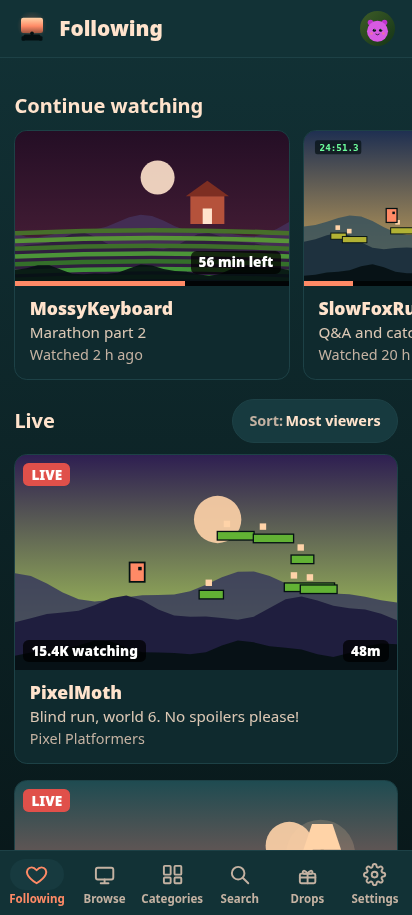
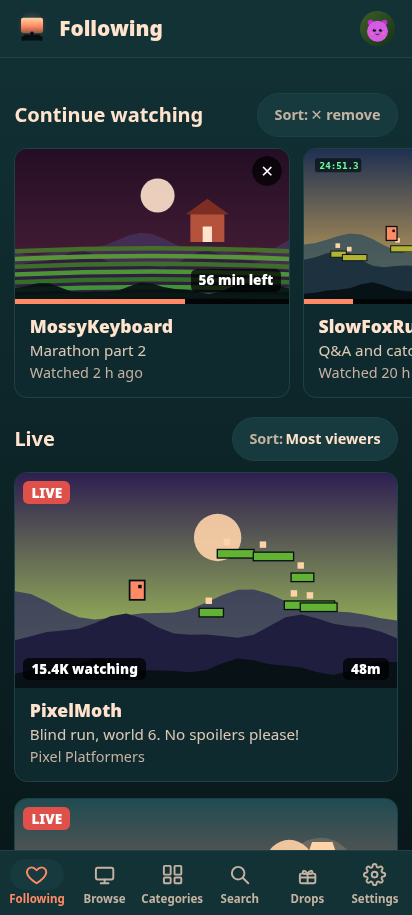
Continue watching: X hint chip, ✕ on each card, Undo toast (#31)
* Continue watching: easier to remove (X hint chip, a ✕ on each card, Undo toast)

- X on the focused card removes it at once (no menu); the row header gets a "{X} remove" chip like the sort
  chips (tap/click removes the focused card or explains), and the focused card shows an "X remove" badge.
- A ✕ on each card for mouse (on hover/focus) and touch (always, 44 px target).
- An Undo toast for ~6 s (Y, or its button): the position is only forgotten when it runs out (or at exit), so Undo
  restores the card unchanged. The long-press menu (Remove, channel page) stays.
- Tests: Remove/Undo/expiry/exit flush; the smoke test covers X → Y undo and ✕ → forgotten; the phone scene taps
  the ✕ and Undo. Screenshots and docs updated.

* chat-send smoke test: say what the chat looked like when its messages time out

* channel smoke test: say where the focus was when the channel page doesn't open

* Channel and chat-send smoke tests: Continue watching off (the row's late load could take the startup focus from the live card they pick)

---------

Changed region(s): [[0.0291, 0.0918, 1.0, 0.9486]]

diff --git a/packages/core/src/js/views/following.js b/packages/core/src/js/views/following.js
@@ -6,7 +6,7 @@ import { tw, setFollowedCache, followedChannels, followsAge, usersByIds, lastLiv
 import { KeyedGrid, streamCard, continueCard, errorState, listSort, sortChip, withGameHeaders, gameHeader } from '../grid.js';
 import { pickFromList } from '../modal.js';
 import { focusEl, scrollToFocus } from '../focus.js';
-import { loadContinueWatching, removeFromContinueWatching } from '../continue-watching.js';
+import { loadContinueWatching, scheduleRemoval, undoRemoval, UNDO_MS } from '../continue-watching.js';
 import { LIVE_SORTS, sortStreams } from '../../shared/sorts.js';
 import { mergeFollows, sortOffline, SORTS, fmtAgo } from '../follows.js';
 import { Poller } from '../refresher.js';
@@ -49,7 +49,8 @@ export function followingView() {
     destroy() { if (poller) { poller.stop(); this.nav && this.nav.unregisterPoller(poller); } },
     onPlayerClosed() { if (this.refreshCw) this.refreshCw(); },
     onAction(action) {
-      if (action === 'X' && this.cwRemove && this.cwRemove()) return true; // X on a Continue watching card: its menu
+      if (action === 'X' && this.cwRemove && this.cwRemove()) return true; // X on a Continue watching card: remove it
+      if (action === 'Y' && this.cwUndo && this.cwUndo()) return true; // while the Undo toast shows
       if (action === 'Y' && this.inCw && this.inCw()) return true; // the row has no sort (most recent first)
       if (action !== 'Y' || !this.cycleSort) return false;
       this.cycleSort();
@@ -68,7 +69,10 @@ export function followingView() {
       const offGridEl = el('div', { class: 'grid grid-offline' });
       const liveEmpty = el('p', { class: 'empty', hidden: true }, 'Nobody you follow is live right now.');
       // Continue watching: above Live, only when there is something to continue.
-      const cwTitle = el('h2', { class: 'section-title cw-title', hidden: true }, 'Continue watching ', hint('{X} remove'));
+      // The header's chip says how to remove (like the sort chips); a tap or click removes the focused card, else explains.
+      const cwChip = el('button', { class: 'sort-chip cw-chip', type: 'button', tabindex: '-1', 'aria-label': 'Remove from Continue watching', onclick: () => { if (!this.cwRemove()) toast(document.body.classList.contains('touch-ui') ? 'Tap ✕ on a card, or long-press it' : 'Press X on a card, or click its ✕', 2500); } },
+        hint('{X} remove'), el('span', { class: 'cw-chip-touch' }, '✕ remove'));
+      const cwTitle = el('h2', { class: 'section-title cw-title', hidden: true }, 'Continue watching ', cwChip);
       const cwGridEl = el('div', { class: 'grid cw-row hscroll', hidden: true });
       host.append(
         el('header', { class: 'view-header' }, el('h1', {}, 'Following'), hint('{X} channel page'), status),
@@ -108,15 +112,40 @@ export function followingView() {
           items,
           onPick: (what) => {
             if (what === 'channel') { nav.openChannel({ login: v.user_login, id: v.user_id, name: v.user_name }); return; }
-            cwGen++;
-            removeFromContinueWatching(cur.id);
-            cwItems.delete(cur.id);
-            paintCw([...cwItems.values()], { keepPosition: true });
-            toast('Removed from Continue watching', 1800);
+            cwRemoveItem(cur);
           },
         });
       };
-      const cw = new KeyedGrid(cwGridEl, { key: (it) => it.id, render: (it) => continueCard(it, cwPlay, cwMenu) });
+      // Remove (X, the card's ✕, or the long-press menu): the card goes at once; an Undo toast (Y, or its button)
+      // brings it back for a few seconds before the position is forgotten (continue-watching.js scheduleRemoval).
+      let undoable = null; // { item, toast }
+      const cwRemoveItem = (it) => {
+        const cur = cwItems.get(it.id) || it;
+        cwGen++;
+        scheduleRemoval(cur.id);
+        cwItems.delete(cur.id);
+        paintCw([...cwItems.values()], { keepPosition: true });
+        if (undoable && undoable.toast) undoable.toast.remove();
+        const t = toast(el('span', { class: 'undo-toast-body' },
+          `Removed “${cur.video.title || 'video'}” from Continue watching`,
+          el('button', { class: 'undo-toast-btn', type: 'button', tabindex: '-1', onclick: () => this.cwUndo() }, hint('{Y} '), 'Undo')), UNDO_MS - 400, 'undo-toast');
+        undoable = { item: cur, toast: t };
+        setTimeout(() => { if (undoable && undoable.item === cur) undoable = null; }, UNDO_MS - 400);
+      };
+      this.cwUndo = () => {
+        if (!undoable) return false;
+        const { item, toast: t } = undoable;
+        undoable = null;
+        if (t) t.remove();
+        if (!undoRemoval(item.id)) return true;
+        cwGen++;
+        paintCw([...cwItems.values(), item].sort((a, b) => b.at - a.at));
+        const back = cwGridEl.querySelector(`[data-cw-id="${item.id}"]`);
+        if (back && document.body.classList.contains('input-pad')) focusEl(back, { instant: true });
+        toast('Back in Continue watching', 1500);
+        return true;
+      };
+      const cw = new KeyedGrid(cwGridEl, { key: (it) => it.id, render: (it) => continueCard(it, cwPlay, cwMenu, cwRemoveItem) });
       const paintCw = (items, opts) => {
         lastCw = { account: state.auth.active, items };
         cwItems = new Map(items.map((it) => [it.id, it]));
@@ -147,7 +176,7 @@ export function followingView() {
           } while (cwAgain && host.isConnected);
         } catch (e) { console.warn('[cw] load failed', e); } finally { cwLoading = false; }
       };
-      this.cwRemove = () => { const c = document.activeElement && cwGridEl.contains(document.activeElement) ? document.activeElement.closest('[data-cw-id]') : null; if (c && cwItems.has(c.dataset.cwId)) cwMenu(cwItems.get(c.dataset.cwId)); return !!c; };
+      this.cwRemove = () => { const c = document.activeElement && cwGridEl.contains(document.activeElement) ? document.activeElement.closest('[data-cw-id]') : null; if (c && cwItems.has(c.dataset.cwId)) cwRemoveItem(cwItems.get(c.dataset.cwId)); return !!c; };
       this.refreshCw = refreshCw;
       this.inCw = () => cwGridEl.contains(document.activeElement);
       const cachedCw = lastCw && lastCw.account === state.auth.active ? lastCw : null;

diff --git a/apps/desktop/test/smoke/continue-watching.js b/apps/desktop/test/smoke/continue-watching.js
@@ -2,7 +2,8 @@
 // Continue watching smoke test, offline, in demo mode (LURKBOX_DEMO=1: made-up data, no network): the seeded row is at
 // the top of Following (above Live, newest first, the deleted VOD dropped after its Helix 404); D-pad RIGHT scrolls the
 // row; A plays a VOD from its saved position without the "Continue watching?" question; back in Following the row
-// is refreshed with that VOD first; X → "Remove from Continue watching" removes it with the focus kept in the row;
+// is refreshed with that VOD first; X removes a card (focus kept in the row) and Y on the Undo toast brings it back;
+// the card's ✕ removes it for good once the toast is gone;
 // the setting hides the row and Settings → Clear watch history empties it. LURKBOX_SHOT_DIR=<dir> saves cw-*.png.
 // Exits 0 on success.
 const fs = require('fs');
@@ -119,20 +120,24 @@ app.on('browser-window-created', (_e, win) => {
       if (t !== null) await waitFor('the row refreshed (just watched: first)', `document.querySelector('.cw-row .card') && document.querySelector('.cw-row .card').dataset.cwId === ${JSON.stringify(pick)}`, 2500);
       log(t !== null ? `played ${pick} from ${t.toFixed(0)} s (saved ${saved.position} s), first in the row again` : `no demo video (ffmpeg missing?): skipped the position check`);
 
-      // X → Remove from Continue watching: one card fewer, focus stays in the row.
+      // The header's chip and the focused card both say "X remove".
       await js("document.querySelector('.cw-row .card').focus(); true");
+      if (!(await js("/remove/.test(document.querySelector('.cw-title .cw-chip').textContent) && getComputedStyle(document.activeElement.querySelector('.cw-hint')).display !== 'none'"))) throw new Error('no X remove hint on the header chip or the focused card');
+      // X removes the focused card at once (focus stays in the row); Y on the Undo toast brings it back.
       const gone = await js('document.activeElement.dataset.cwId');
       await press('X');
-      await waitFor('the menu', "[...document.querySelectorAll('.modal .pick-item')].some((b) => /Remove from Continue watching/.test(b.textContent))");
-      // The modal focuses its first item on the next animation frame, which xvfb doesn't always run: a D-pad press does it too.
-      const inMenu = "!!(document.activeElement && document.activeElement.closest('.modal'))";
-      if (!(await waitFor('the focus in the menu', inMenu, 1500).catch(() => false))) await press('DOWN');
-      await waitFor('the focus on Remove', "!!(document.activeElement && document.activeElement.closest('.modal') && /Remove from/.test(document.activeElement.textContent))");
-      await shot('menu');
-      await press('A');
       await waitFor('one card fewer', `document.querySelectorAll('.cw-row .card').length === 5 && !document.querySelector('.cw-row [data-cw-id="${gone}"]')`);
       if (!(await js("!!document.activeElement.closest('.cw-row')"))) throw new Error('the focus left the row after Remove');
-      if (await js(`window.lurkbox.resumeGet(${JSON.stringify(gone)})`)) throw new Error('the removed VOD kept its position');
+      await waitFor('the Undo toast', "!!document.querySelector('#toasts .undo-toast .undo-toast-btn')");
+      await shot('undo');
+      await press('Y');
+      await waitFor('the card back', `document.querySelectorAll('.cw-row .card').length === 6 && document.querySelector('.cw-row .card').dataset.cwId === "${gone}"`);
+      if (!(await js(`window.lurkbox.resumeGet(${JSON.stringify(gone)})`))) throw new Error('Undo lost the position');
+      // Remove again (the card's ✕ this time) and let the toast run out: the position is forgotten.
+      await js(`document.querySelector('.cw-row [data-cw-id="${gone}"] .cw-x').click(); true`);
+      await waitFor('one card fewer', `document.querySelectorAll('.cw-row .card').length === 5`);
+      await waitFor('the position forgotten', `window.lurkbox.resumeGet(${JSON.stringify(gone)}).then((r) => !r)`, 10000);
+      if (await js(`!!document.querySelector('.cw-row [data-cw-id="${gone}"]')`)) throw new Error('the removed card came back');
 
       // The setting hides the row; Clear watch history empties it.
       await js("window.__lurkbox.nav.goTop('settings'); true");
@@ -145,7 +150,7 @@ app.on('browser-window-created', (_e, win) => {
       await waitFor('Following', "document.querySelectorAll('[data-view=following] .grid-live .card').length >= 5");
       await sleep(600);
       if (!(await js("document.querySelector('.cw-row').hidden && document.querySelector('.cw-title').hidden"))) throw new Error('the row shows after Clear watch history');
-      finish(0, `row of ${ids.length} above Live (deleted VOD dropped), D-pad scroll, played without the question, refreshed after the player, X → Remove, Clear watch history`);
+      finish(0, `row of ${ids.length} above Live (deleted VOD dropped), D-pad scroll, played without the question, refreshed after the player, X → Remove → Y undo, ✕ → forgotten after the toast, Clear watch history`);
     } catch (e) {
       await shot('FAILED').catch(() => {});
       finish(1, e.message);

diff --git a/apps/desktop/test/smoke/channel.js b/apps/desktop/test/smoke/channel.js
@@ -10,7 +10,7 @@ const os = require('os');
 const path = require('path');
 
 const userData = fs.mkdtempSync(path.join(os.tmpdir(), 'lurkbox-channel-'));
-fs.writeFileSync(path.join(userData, 'settings.json'), JSON.stringify({ videoOnlyUnfocused: false, navSounds: false, inputWhenUnfocused: true }));
+fs.writeFileSync(path.join(userData, 'settings.json'), JSON.stringify({ videoOnlyUnfocused: false, navSounds: false, inputWhenUnfocused: true, continueWatchingOn: false }));
 Object.assign(process.env, { TZ: 'UTC', LURKBOX_DEMO: '1', LURKBOX_USER_DATA: userData, LURKBOX_DEMO_SIZE: '1280x800' });
 if (!process.argv.includes('--windowed')) process.argv.push('--windowed');
 
@@ -79,7 +79,10 @@ app.on('browser-window-created', (_e, win) => {
       await js("document.querySelectorAll('[data-view=following] .grid-live .card')[1].focus(); true");
       const login = await js("document.activeElement.dataset.channelLogin");
       await press('X');
-      await waitFor('the channel page', `!!document.querySelector('[data-view="channel:${login}"] .channel-tab.selected')`);
+      await waitFor('the channel page', `!!document.querySelector('[data-view="channel:${login}"] .channel-tab.selected')`).catch(async (e) => {
+        const d = await js("({ active: document.activeElement && document.activeElement.outerHTML.slice(0, 160), views: [...document.querySelectorAll('#content [data-view]')].map((n) => n.dataset.view + (n.hidden ? '(hidden)' : '')), modal: !!document.querySelector('.modal'), player: !document.getElementById('player-screen').hidden, toasts: [...document.querySelectorAll('#toasts .toast')].map((t) => t.textContent.slice(0, 60)) })").catch((x) => String(x));
+        throw new Error(`${e.message} (login ${login}): ${JSON.stringify(d)}`);
+      });
       if (await tab() !== 'home') throw new Error(`opened on ${await tab()}`);
       await waitFor('the header', "/followers/.test(document.querySelector('.channel-sub').textContent) && !!document.querySelector('.channel-live-card .watch-live') && !!document.querySelector('.channel-avatar img')");
       await waitFor('the home tab', "!!document.querySelector('.channel-body [data-focus-key=home-live]') && document.querySelectorAll('.channel-body .card-clip').length >= 1 && !!document.querySelector('.channel-next')");

diff --git a/apps/desktop/test/smoke/chat-send.js b/apps/desktop/test/smoke/chat-send.js
@@ -12,7 +12,7 @@ const os = require('os');
 const path = require('path');
 
 const userData = fs.mkdtempSync(path.join(os.tmpdir(), 'lurkbox-chat-send-'));
-fs.writeFileSync(path.join(userData, 'settings.json'), JSON.stringify({ chatDefault: true, chatStyle: 'lurkbox', videoOnlyUnfocused: false, navSounds: false, inputWhenUnfocused: true }));
+fs.writeFileSync(path.join(userData, 'settings.json'), JSON.stringify({ chatDefault: true, chatStyle: 'lurkbox', videoOnlyUnfocused: false, navSounds: false, inputWhenUnfocused: true, continueWatchingOn: false }));
 Object.assign(process.env, { LURKBOX_DEMO: '1', LURKBOX_USER_DATA: userData, LURKBOX_DEMO_SIZE: '1280x800' });
 if (!process.argv.includes('--windowed')) process.argv.push('--windowed');
 
@@ -96,7 +96,10 @@ app.on('browser-window-created', (_e, win) => {
       await js("document.querySelector('[data-view=following] .grid-live .card').focus(); true");
       await press('A');
       await waitFor('the player', "!document.getElementById('player-screen').hidden");
-      await waitFor('chat messages', "document.querySelectorAll('#chat .chat-msg:not(.system)').length >= 10");
+      await waitFor('chat messages', "document.querySelectorAll('#chat .chat-msg:not(.system)').length >= 10", 25000).catch(async (e) => {
+        const d = await js("({ msgs: document.querySelectorAll('#chat .chat-msg').length, real: document.querySelectorAll('#chat .chat-msg:not(.system)').length, chatHidden: !!(document.getElementById('chat') && document.getElementById('chat').hidden), cur: window.__lurkbox.player.current && { kind: window.__lurkbox.player.current.kind, login: window.__lurkbox.player.current.login }, chatOn: window.__lurkbox.player.chatOn, sys: [...document.querySelectorAll('#chat .chat-msg.system')].map((n) => n.textContent.slice(0, 80)), modal: !!document.querySelector('.modal') })").catch((x) => String(x));
+        throw new Error(`${e.message}: ${JSON.stringify(d)}`);
+      });
       await waitFor('the composer', "(() => { const c = document.querySelector('#chat .chat-composer'); return c && !c.hidden; })()");
       // Overlay → "Send a message" → the on-screen keyboard.
       await press('A');

diff --git a/packages/core/src/js/grid.js b/packages/core/src/js/grid.js
@@ -110,14 +110,20 @@ export function videoCard(v, onSelect) {
  * "x min left"; the channel, the title and when it was last watched. A plays from the saved position; X (or a
  * long-press) calls onMenu (Remove from Continue watching).
  */
-export function continueCard(item, onSelect, onMenu) {
+export function continueCard(item, onSelect, onMenu, onRemove = onMenu) {
   const v = item.video;
   const p = cwProgress(item.position, item.duration);
   const img = v.thumbnail_url ? thumb(v.thumbnail_url, 440, 248) : '';
-  const card = el('button', { class: 'card card-cw focusable', type: 'button', onclick: () => onSelect(item), dataset: { focusKey: `cw-${item.id}`, cwId: item.id }, 'aria-label': `${v.user_name || v.user_login}: ${v.title || 'Video'}, ${p.label}` },
+  const card = el('button', { class: 'card card-cw focusable', type: 'button', onclick: () => onSelect(item), dataset: { focusKey: `cw-${item.id}`, cwId: item.id }, 'aria-label': `${v.user_name || v.user_login}: ${v.title || 'Video'}, ${p.label}. X removes it.` },
     el('div', { class: 'card-thumb' },
       img ? el('img', { src: img, alt: '', loading: 'lazy' }) : el('div', { class: 'thumb-missing' }, 'Video'),
       el('span', { class: 'badge cw-left' }, p.label),
+      // On the focused card (controller or keyboard): how to remove it.
+      el('span', { class: 'badge cw-hint' }, hint('{X} remove')),
+      // ✕ for mouse and touch (the D-pad uses X). A span, not a nested button; its click doesn't reach the card.
+      el('span', { class: 'cw-x', role: 'button', 'aria-label': 'Remove from Continue watching', title: 'Remove from Continue watching',
+        onclick: (e) => { e.stopPropagation(); e.preventDefault(); onRemove(item); },
+        onpointerdown: (e) => e.stopPropagation() }, '\u2715'),
       el('div', { class: 'cw-progress', role: 'progressbar', 'aria-valuemin': '0', 'aria-valuemax': '100', 'aria-valuenow': String(Math.round(p.fraction * 100)) },
         el('div', { class: 'cw-progress-fill', style: `width: ${(p.fraction * 100).toFixed(1)}%` }))),
     el('div', { class: 'card-body' },

diff --git a/packages/core/src/css/app.css b/packages/core/src/css/app.css
@@ -237,6 +237,23 @@ img { display: block; }
 .grid.cw-row::-webkit-scrollbar { display: none; }
 .grid.cw-row[hidden], .cw-title[hidden] { display: none; }
 .badge.cw-left { bottom: 0.75rem; right: 0.5rem; font-variant-numeric: tabular-nums; }
+.badge.cw-hint { top: 0.5rem; left: 0.5rem; display: none; align-items: center; }
+.badge.cw-hint .hint { color: inherit; font-size: inherit; }
+body:not(.input-touch):not(.input-mouse) .card-cw:is(:focus, .is-focused) .cw-hint { display: inline-flex; }
+/* ✕: with a mouse on the hovered or focused card; always on the touch layouts (touch.css). The D-pad uses X. */
+.cw-x {
+  position: absolute; top: 0.4rem; right: 0.4rem; width: 2.2rem; height: 2.2rem; border-radius: 50%; display: none;
+  place-items: center; background: var(--badge-bg); color: var(--badge-fg); font-size: 1rem; font-weight: 800; cursor: pointer;
+}
+body.input-mouse .card-cw:is(:hover, :focus, .is-focused) .cw-x { display: grid; }
+.cw-x:hover { background: var(--live); color: var(--on-live); }
+.cw-chip .cw-chip-touch { display: none; }
+body.input-mouse .cw-chip .hint { display: none; }
+body.input-mouse .cw-chip .cw-chip-touch { display: inline; }
+.toast.undo-toast { pointer-events: auto; }
+.undo-toast-body { display: inline-flex; align-items: center; gap: 0.9rem; flex-wrap: wrap; }
+.undo-toast-btn { border: 1px solid var(--border); background: var(--raised); color: var(--fg); border-radius: 999px; padding: 0.25rem 0.8rem; font: inherit; font-size: 0.95rem; cursor: pointer; }
+.undo-toast-btn .hint { color: inherit; font-size: inherit; margin-right: 0.2rem; }
 .cw-progress { position: absolute; left: 0; right: 0; bottom: 0; height: 0.3rem; background: var(--badge-bg); }
 .cw-progress-fill { height: 100%; background: var(--accent); }
 .card-body { padding: 0.7rem 0.9rem 0.9rem; display: flex; flex-direction: column; gap: 0.2rem; min-width: 0; }

diff --git a/packages/core/src/js/continue-watching.js b/packages/core/src/js/continue-watching.js
@@ -25,11 +25,38 @@ export async function loadContinueWatching({ account = state.auth.active, now = 
       rows = rows.filter((e) => !gone.includes(e.id));
     }
   }
+  rows = rows.filter((e) => !pending.has(e.id));
   return rows.map((e) => ({ id: e.id, position: e.position, duration: e.duration, at: e.at, video: videoOfEntry(e, checked.videos.get(e.id)) }));
 }
 
 /** Tests: forget the Helix checks. */
 export function resetContinueWatchingChecks() { checked.account = null; checked.videos = new Map(); }
+
+// Removals waiting out their Undo toast: id → timer. The row leaves them out meanwhile; the position is only
+// forgotten when the time is up (or at exit, flushRemovals), so Undo puts the card back exactly as it was.
+export const UNDO_MS = 6000;
+const pending = new Map();
+
+/** Remove with Undo: hidden at once, forgotten after `ms` unless undoRemoval(id) comes first. */
+export function scheduleRemoval(id, ms = UNDO_MS) {
+  const k = String(id);
+  clearTimeout(pending.get(k));
+  pending.set(k, setTimeout(() => { pending.delete(k); removeFromContinueWatching(k); }, ms));
+}
+/** Undo: true if the removal was still pending. */
+export function undoRemoval(id) {
+  const k = String(id);
+  if (!pending.has(k)) return false;
+  clearTimeout(pending.get(k));
+  pending.delete(k);
+  return true;
+}
+/** At exit: forget every pending removal now. */
+export function flushRemovals() {
+  for (const [k, t] of pending) { clearTimeout(t); removeFromContinueWatching(k); }
+  pending.clear();
+}
+export const isPendingRemoval = (id) => pending.has(String(id));
 
 /** "Remove from Continue watching": forgets the saved position too (the video would start over next time). */
 export function removeFromContinueWatching(id) {

diff --git a/apps/desktop/scripts/screenshot-scene.js b/apps/desktop/scripts/screenshot-scene.js
@@ -513,11 +513,18 @@ app.on('browser-window-created', (_e, win) => {
       if (row.h > row.card * 1.5) throw new Error(`the row wraps on the phone: ${JSON.stringify(row)}`);
       await settle();
       await shoot('phone-continue-watching');
-      // A long-press offers Remove from Continue watching.
+      // The ✕ removes a card (a 44 px target); the toast's Undo brings it back; a long-press offers the menu.
+      const x = await js("(() => { const r = document.querySelector('.cw-row .card .cw-x').getBoundingClientRect(); return [r.width, r.height]; })()");
+      if (x[0] < 44 || x[1] < 44) throw new Error(`the ✕ is ${x.join('x')} px`);
+      await tap('[data-view=following] .cw-row .card .cw-x');
+      await waitFor('one card fewer', "document.querySelectorAll('[data-view=following] .cw-row .card').length === 5");
+      await waitFor('the Undo toast', "!!document.querySelector('#toasts .undo-toast .undo-toast-btn')");
+      await settle({ noSpinner: false });
+      await shoot('phone-continue-watching-undo');
+      await tap('#toasts .undo-toast-btn');
+      await waitFor('the card back', "document.querySelectorAll('[data-view=following] .cw-row .card').length === 6");
       await tap('[data-view=following] .cw-row .card', { hold: 750 });
       await waitFor('the menu', "[...document.querySelectorAll('.modal .pick-item')].some((b) => /Remove from Continue watching/.test(b.textContent))");
-      await tap('.modal .pick-item');
-      await waitFor('one card fewer', "document.querySelectorAll('[data-view=following] .cw-row .card').length === 5");
     },
     async 'phone-following'() {
       await layoutIs('phone');

diff --git a/packages/core/src/css/touch.css b/packages/core/src/css/touch.css
@@ -88,6 +88,10 @@ body.layout-phone .view-header h1 { font-size: 1.6rem; }
 body.layout-phone .section-title { font-size: 1.25rem; margin: 1.2rem 0 0.7rem; display: flex; align-items: center; flex-wrap: wrap; gap: 0.4rem; }
 body.layout-phone .section-title .sort-chip { margin-left: auto; }
 body.layout-phone .grid { gap: 1rem 0.8rem; padding: 0.4rem; margin: -0.4rem; }
+/* Continue watching: the ✕ is always there for a finger (44 px target, the visible circle smaller), the chip says so. */
+body.touch-ui .cw-x { display: grid; top: 0; right: 0; width: var(--touch-min); height: var(--touch-min); background: radial-gradient(circle, var(--badge-bg) 0 0.9rem, transparent 0.95rem); }
+body.touch-ui .cw-chip .cw-chip-touch { display: inline; }
+body.touch-ui .undo-toast-btn { min-height: var(--touch-min); padding: 0 1.1rem; }
 /* Continue watching: a sideways scroller of narrower cards, edge to edge, the next card peeking in. */
 body.layout-phone .grid.cw-row { grid-auto-columns: 72%; margin-left: -0.9rem; margin-right: -0.9rem; padding-left: 0.9rem; padding-right: 0.9rem; scroll-snap-type: x proximity; scroll-padding-left: 0.9rem; }
 body.layout-phone .grid.cw-row > .card { scroll-snap-align: start; }

diff --git a/packages/core/src/js/main.js b/packages/core/src/js/main.js
@@ -1,5 +1,6 @@
 // Renderer entry: router, left rail, input dispatch and startup routing.
 import { initState, state, onState, applyTheme, applyDisplay, flushSettings } from './state.js';
+import { flushRemovals } from './continue-watching.js';
 import { handleSliderAction } from './slider.js';
 import { Input, A, B, X, Y, LB, RB, LEFT, RIGHT, DIRECTIONS } from './input.js';
 import { moveFocus, focusFirst, focusEl, focusables } from './focus.js';
@@ -358,6 +359,7 @@ function exitNow() {
     () => player && player.watcher.shutdown(), // delete the EventSub subscription
     () => player && player.chat.leave(),
     () => player && player.saveResume(), // where this VOD was, for next time
+    () => flushRemovals(), // Continue watching removals still waiting out their Undo toast
     () => flushSettings(), // a slider moved in the last moment
   ], () => window.lurkbox.quit(), 500);
 }

diff --git a/docs/architecture.md b/docs/architecture.md
@@ -56,7 +56,7 @@ Shared, platform-neutral logic that a non-browser host also needs lives in `pack
 - **Channel page** (`views/channel.js`, `shared/channel-page.js`): reached from X on a stream card (`data-channel-*` on the card, `channelOfCard()` in `grid.js`; a touch long-press does the same), offline follows, search results and the player's channel icon (`nav.openChannel()`, which doesn't stack the same channel twice). The header comes from Helix `/users` (avatar, description, `offline_image_url` as the banner; Helix has no profile banner), `/streams` (the LIVE card), `/channels/followers` (`total` only, readable with any user token) and the follow state. Tabs are focusable buttons; LB/RB step through them (the view's `onAction`), and the view keeps its tab across `nav.refresh()`. Videos use Helix `/videos?type=` (archive, highlight, upload) with the VOD sort; clips use `/clips` with `started_at` and `ended_at` from `clipRange()` (both ends, because a missing `ended_at` means "a week after started_at") and the clip sort (`sortClips()`); the schedule uses `/schedule` (a 404 means no schedule), formatted with `fmtSchedule()` in the device's time zone (Today/Tomorrow by that zone's calendar). Filter pills (`filterPills()`) and the sorts are saved settings (`videoFilter`, `clipPeriod`, `clipSort`). Panels and social links have no public API and are left to Twitch's own page (`openChannelPage`); no GQL is used here.
 - **Clips** (`clip-engine.js`, desktop `clips.js`): Helix `/clips` has no video URL, so the host asks Twitch's web GQL for `VideoAccessToken_Clip` (the persisted query twitch.tv sends, then the plain query if the hash is unknown; anonymous, Twitch's web client ID) and signs each `videoQualities[].sourceURL` with the token's `sig` and `token` (only https URLs on Twitch's hosts). `ClipEngine` plays the chosen MP4 in a `<video>` with the DirectEngine-shaped API, so the overlay, quality pop-over, seek bar and scrubber work unchanged (`kind: 'clip'`); its Auto follows Settings → Player → default quality and the background cap (`pickClipQuality()`). `clipSourcePlan()` falls back to `ClipEmbed` (`clips.twitch.tv/embed?parent=localhost`, no API: its end is timed from the clip's length) when the engine setting is the Twitch player, the host lacks `clipSources`, GQL fails, or the MP4 errors. The player keeps the list a clip came from (`clipList`): LB/RB and the prev/next icons step through it, and ENDED plays the next one (`clipAutoplay`). "Watch from here" opens the clip's `video_id` at `vod_offset` (Helix `/videos?id=` first, so a deleted broadcast says so).
 - **Making clips** (`shared/my-clips.js`, `Player.createClip()`): the live overlay's scissors (signed in only) send Helix `POST /clips?broadcaster_id=` through `window.lurkbox.helix` (the token never reaches the page). `clipAuthState()` checks `clips:edit` first (a token without it opens the same "sign in again" dialog as chat). `clipCreateResult()` turns the HelixResult into the clip's id and edit link (only https links on Twitch's hosts are shown or encoded, else `clips.twitch.tv/<id>/edit`) or a code and message: 401/missing scope → sign in again, 403 → clips off or limited, 404 → not live, 429 → blocked until `Ratelimit-Reset`, 5xx → unavailable. The toast holds the host's QR code of the edit link. "My clips" (`myClips` setting: per account, newest first, at most 50, validated by `sanitizeSettings`) shows at the top of the channel's Clips tab; Helix `/clips?id=` fills the cards, and clips Twitch is still processing show as "Processing…".
-- **Continue watching** (`shared/continue-watching.js`, `js/continue-watching.js`, the top of `views/following.js`): built on the host's per-account resume positions (desktop `resume.json`, Android preferences, demo in memory). `resumeSet(id, pos, dur, meta)` also stores the video's details (`m`: title, login, name, user id, thumbnail; `sanitizeResumeMeta`, https or the demo scheme only; kept from the last save when left out); `resumeList()` returns the active account's entries and `resumeClear()` forgets them (Settings → Clear watch history). The entry maths (`resumeUpdate`, `resumeEntries`, 300 per account) are shared by both hosts. `continueWatching()` makes the row: at least 30 s watched, not finished (≥ 95 % or under 2 min left, `isFinished`), watched in the last 30 days, a known duration, newest first, at most 20. Each VOD is checked once per account and session with one Helix `GET /videos?id=…` (`checkVideos`): fresh details, or gone (a 404, or missing from a 200), which `resumeSet(id, 0)` forgets; network errors, 401, 429 and 5xx change nothing. A on a card plays from the saved position (`startAt`, so no "Continue watching?" question: picking the card already says "continue"); X or a long-press offers Remove (forgets the position) and the channel page. The row reloads on every Following refresh and right after the player closes (`view.onPlayerClosed()`, called by `nav.closePlayer()`). It's a `KeyedGrid` in a one-row sideways scroller (`.hscroll`): `scrollToFocus()` also scrolls the row (`computeScrollLeft`), the phone layout shows 72 %-wide cards with scroll snapping, and Y does nothing there (the order is fixed). Clips aren't in the row (at most 60 s, always under "2 minutes left").
+- **Continue watching** (`shared/continue-watching.js`, `js/continue-watching.js`, the top of `views/following.js`): built on the host's per-account resume positions (desktop `resume.json`, Android preferences, demo in memory). `resumeSet(id, pos, dur, meta)` also stores the video's details (`m`: title, login, name, user id, thumbnail; `sanitizeResumeMeta`, https or the demo scheme only; kept from the last save when left out); `resumeList()` returns the active account's entries and `resumeClear()` forgets them (Settings → Clear watch history). The entry maths (`resumeUpdate`, `resumeEntries`, 300 per account) are shared by both hosts. `continueWatching()` makes the row: at least 30 s watched, not finished (≥ 95 % or under 2 min left, `isFinished`), watched in the last 30 days, a known duration, newest first, at most 20. Each VOD is checked once per account and session with one Helix `GET /videos?id=…` (`checkVideos`): fresh details, or gone (a 404, or missing from a 200), which `resumeSet(id, 0)` forgets; network errors, 401, 429 and 5xx change nothing. A on a card plays from the saved position (`startAt`, so no "Continue watching?" question: picking the card already says "continue"); Remove: X on the focused card (the header's `{X} remove` chip and a badge on the focused card say so; the chip is tappable too), the card's ✕ (a `role=button` span, shown on hover with a mouse and always on the touch layouts as a 44 px target), or the long-press menu (Remove, channel page). The card goes at once and an Undo toast (Y, or its button) lasts ~6 s; `scheduleRemoval()` only forgets the position when that time is up (`flushRemovals()` at exit), so Undo puts the card back unchanged. The row reloads on every Following refresh and right after the player closes (`view.onPlayerClosed()`, called by `nav.closePlayer()`). It's a `KeyedGrid` in a one-row sideways scroller (`.hscroll`): `scrollToFocus()` also scrolls the row (`computeScrollLeft`), the phone layout shows 72 %-wide cards with scroll snapping, and Y does nothing there (the order is fixed). Clips aren't in the row (at most 60 s, always under "2 minutes left").
 - **Search history** (`shared/search-history.js`, `views/search.js`): settings `searchHistory` (`{ <user id>: [{ q, at, pick? }] }`, newest first, at most 20 per account, one entry per query ignoring case and spaces, `pick` = the channel or category picked from its results) and `searchHistoryOn`, both validated by `sanitizeSettings` like the emote recents. A search is recorded when something is picked from its results. An empty box shows the active account's list; X on an entry deletes it and keeps the focus slot. Search also queries Helix `GET /search/categories` (one request per search, shown above the channels).
 - **On-screen keyboard** (`osk.js`, `osk-layout.js`): a CSS grid of `COLS` (10) equal columns; every key spans whole cells and every row's spans add up to `COLS` (unit-tested), so the columns line up in both layouts (letters, symbols and numbers) and in the chat variant's extra punctuation row. The D-pad doesn't use the spatial search here: the position is `{row, col}`, up/down keep `col` (so leaving a wide key returns to the key you came from) and left/right step one key and wrap within the row (`oskMove()`). Both layouts have the same number of rows, so switching doesn't resize the dialog.
 - **Emote picker and quick chat** (`emote-picker.js`, `user-emotes.js`, `quick-chat.js`, `shared/quick-chat.js`): your own emotes come from Helix `GET /chat/emotes/user` (`user:read:emotes`, every page, with `broadcaster_id` for the channel's follower emotes, cached 30 min per account and channel); image URLs come from the response's `template`. They also draw your own messages (the chat's `lookup()`: the channel's emotes, then yours). The picker and quick chat are `Popover`s: from the composer they hang above its buttons on the player screen (`cpop`), and quick chat also above the overlay's icon. `Popover` passes the actions it doesn't use itself to the pop-over's `onAction` (LB/RB tabs, X/Y add/edit). Phrases and recent emotes live in settings (`quickChat`: global list plus lists keyed by broadcaster id with the login kept for display; `emoteRecents`: per account), validated by `sanitizeSettings`. A phrase goes through the same `Chat.send()` with its text as the cooldown key (3 s), behind the slow-mode gate.

diff --git a/README.md b/README.md
@@ -35,7 +35,7 @@ Lurkbox is not affiliated with or endorsed by Twitch.
 
 ![All seven themes on the Following screen: Lurkbox, Game Mode, Classic Purple, OLED, Daylight, High Contrast and a custom theme](docs/screenshots/themes.png)
 
-More in [docs/screenshots/](docs/screenshots/): a clip in the player, a clip just made, a channel's schedule, pop-overs, chat over the video, the chat composer, categories, search, the on-screen keyboard, settings, "Who's watching?" and the phone sign-in. They come from demo mode (`npm run screenshots`): every channel, picture, chat message and emote is made up for Lurkbox, and nothing is real Twitch content.
+More in [docs/screenshots/](docs/screenshots/): the Undo toast after removing from Continue watching, a clip in the player, a clip just made, a channel's schedule, pop-overs, chat over the video, the chat composer, categories, search, the on-screen keyboard, settings, "Who's watching?" and the phone sign-in. They come from demo mode (`npm run screenshots`): every channel, picture, chat message and emote is made up for Lurkbox, and nothing is real Twitch content.
 
 ## Features (v0.1)
 
@@ -53,7 +53,7 @@ More in [docs/screenshots/](docs/screenshots/): a clip in the player, a clip jus
   - The filters and sorts are remembered.
 - **Clips.** A clip plays in the player like a video: quality, the seek bar and its scrubbing, LB/RB (or the overlay's icons) for the previous and next clip of the list, and "next clip" autoplay when one ends (Settings → Player → Next clip, on by default). The overlay shows the clip's title, CLIP, who clipped it, its views and date; **Watch from here** opens its broadcast at the clip's moment (Helix `vod_offset`) when Twitch still has it. Clips play from Twitch's MP4s (see [Unofficial Twitch interfaces](#unofficial-twitch-interfaces)); with the Twitch player chosen, or if that fails, Twitch's own clip embed plays them (no quality or seeking there).
 - **Making clips.** The scissors in the live player's overlay make a clip of the stream as you (the official Helix `POST /clips`, permission `clips:edit`, requested at sign-in; a token without it asks you to sign in again). A toast says "Clip created" with a QR code and short link to its edit page (clips are edited on twitch.tv), and the clip joins **My clips** at the top of that channel's Clips tab (per account, on the device, up to 50). Twitch's answers become plain messages: clips turned off or limited to followers or subscribers, the channel isn't live, too many clips (Lurkbox waits until Twitch's reset), or Twitch being unavailable.
-- **Continue watching.** Past broadcasts and other videos you started but didn't finish sit in a row at the top of Following (per account, most recent first, up to 20), with a progress bar and the minutes left. A plays on from where you stopped, without the "Continue watching?" question the player asks when you open the video elsewhere. X (or a long-press) offers "Remove from Continue watching", which also forgets the position. A video drops off when it's finished (95 % watched or under 2 minutes left), when Twitch no longer has it, or after 30 days without watching. The row is a sideways scroller (D-pad left/right, or a swipe on a phone). Settings → General turns it off ("Continue watching row"; positions are still saved for the resume question) and "Clear watch history" forgets every position of the account. Clips aren't in it: they're at most a minute long.
+- **Continue watching.** Past broadcasts and other videos you started but didn't finish sit in a row at the top of Following (per account, most recent first, up to 20), with a progress bar and the minutes left. A plays on from where you stopped, without the "Continue watching?" question the player asks when you open the video elsewhere. To remove one: X on the focused card (the row's header chip and the focused card both say "X remove"), the ✕ on a card with a mouse or a finger, or a long-press (a menu with Remove and the channel page). A toast offers Undo for a few seconds (Y, or its Undo button); after that the position is forgotten too. A video drops off when it's finished (95 % watched or under 2 minutes left), when Twitch no longer has it, or after 30 days without watching. The row is a sideways scroller (D-pad left/right, or a swipe on a phone). Settings → General turns it off ("Continue watching row"; positions are still saved for the resume question) and "Clear watch history" forgets every position of the account. Clips aren't in it: they're at most a minute long.
 - **Search history.** Search finds channels and categories. Opening it with an empty box shows your recent searches (per account, newest first, up to 20): A searches again, X deletes the highlighted one, and "Clear history" removes them all. A search is remembered when you pick a channel or category from its results, together with what you picked. Settings → General turns it off ("Search history") or clears it ("Clear search history"). It stays on the device, in Lurkbox's settings.
 - **Sorting.** Y re-sorts the list you're on, and a small chip shows the current order ("Y sort: Most viewers"; tap or click it too). The focus stays in the same place, and the choice is remembered.
   - Following → Live: Most viewers (default), Recently started, Live longest, A–Z, or By game (grouped under small game headers). Following → Offline: Recently live, A–Z, Followed date. Y sorts whichever of the two has focus. Both are also in Settings → General.
@@ -146,7 +146,7 @@ npm run test:drops  # drops: inventory scanning, claiming and controller navigat
 npm run test:follow # follow/unfollow against a local fixture of a channel page: selectors, the flip check, retry, captcha, wrong channel
 npm run test:chat   # Lurkbox chat on a busy live channel: emotes, overlays, badges, paints (LURKBOX_SHOT=x.png saves a screenshot)
 npm run test:channel     # offline, in demo mode: X on a live card opens its channel page; every tab, the video and clip filters and sorts, a clip made from the live player (toast with QR code, My clips), a clip played (qualities, next-clip autoplay, "Watch from here"), LB/RB, back
-npm run test:continue    # offline, in demo mode: the Continue watching row (above Live, the deleted VOD dropped), D-pad scroll, A plays from the saved position without the question, the row refreshes after the player, X → Remove, Clear watch history
+npm run test:continue    # offline, in demo mode: the Continue watching row (above Live, the deleted VOD dropped), D-pad scroll, A plays from the saved position without the question, the row refreshes after the player, X → Remove → Y undo, ✕ → forgotten after the toast, Clear watch history
 npm run test:chat-send   # offline, in demo mode: sends a message with the controller and the on-screen keyboard, sees it echoed, a refused duplicate marked, an emote inserted from the picker, and quick-chat phrases sent and echoed
 LURKBOX_CHAT_STYLE=twitch npm run test:chat   # Twitch chat style: the frame's TV zoom, panel width, no overlap with the video (LURKBOX_CHAT_SIZE=175 for a fixed size)
 LURKBOX_CHAT_EXT=1 npm run test:chat   # the experimental real extensions in Twitch chat style
